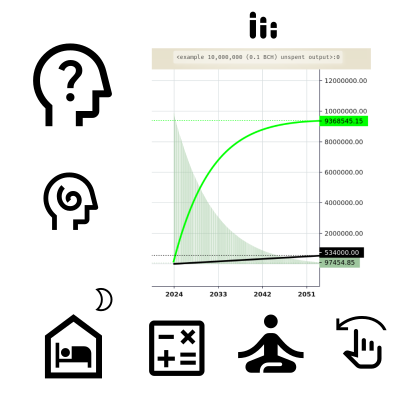
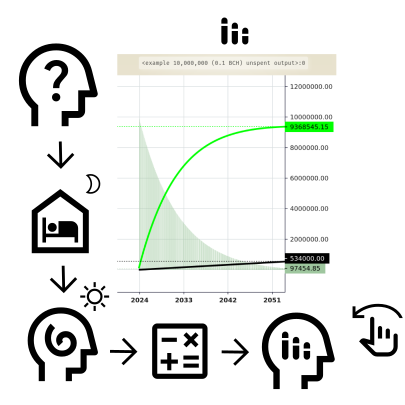
tweek docs

diff --git a/packages/chi/src/routes/help/+page.svelte b/packages/chi/src/routes/help/+page.svelte
@@ -18,7 +18,7 @@
   
   {#each pages as page}
     <div id=book>
-      <img src=/docs/{String(page).padStart(2, '0')}.png alt="home" />
+      <img src=/h/{String(page).padStart(2, '0')}.png alt="home" />
     </div>
     
     {/each}
